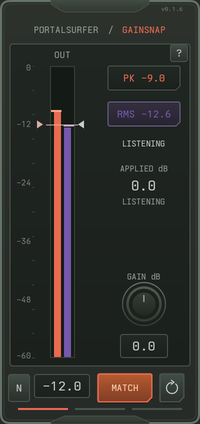
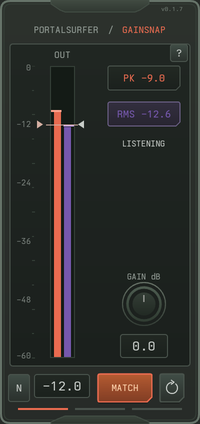
Remove the duplicate applied-gain and adjustment-status readout

Changed region(s): [[0.6, 0.3679, 0.84, 0.4906]]

diff --git a/src/gui_gpui.rs b/src/gui_gpui.rs
@@ -711,9 +711,6 @@ pub(crate) struct GainSnapEditor {
     help_focus: FocusHandle,
     normalize_focus: FocusHandle,
     close_focus: FocusHandle,
-    applied_gain_previous: f32,
-    gain_direction: i8,
-    gain_direction_until: Instant,
     last_display_snapshot: DisplaySnapshot,
 }
 
@@ -802,7 +799,6 @@ impl GainSnapEditor {
             });
         let last_display_snapshot =
             DisplaySnapshot::capture(&controller.params, &controller.status);
-        let applied_gain_previous = controller.status.applied_gain_db();
         Self {
             controller,
             target_input,
@@ -836,9 +832,6 @@ impl GainSnapEditor {
             help_focus: cx.focus_handle(),
             normalize_focus: cx.focus_handle(),
             close_focus: cx.focus_handle(),
-            applied_gain_previous,
-            gain_direction: 0,
-            gain_direction_until: Instant::now(),
             last_display_snapshot,
         }
     }
@@ -1211,7 +1204,7 @@ impl GainSnapEditor {
                 ("Peak / RMS", "Peak: transients. RMS: strongest 300 ms window, not LUFS."),
                 ("Match / Normalize", "Normalize toggles Peak Match at 0 dBFS. Restart measures again."),
                 ("Target / Gain", "Left: target dBFS. Right: gain dB, on its own scale."),
-                ("Applied / Shortfall", "Applied includes gain smoothing. Shortfall: the gain range blocks the RMS target."),
+                ("RMS shortfall", "Shortfall means the gain range prevents reaching the RMS target."),
                 ("Shortcuts", "Drag or type numbers. Shift: finer steps. Double-click: gain 0, target −12. Enter: confirm. Space: DAW transport."),
             ] {
                 body = body.child(div().flex().flex_col().gap(px(2.0))
@@ -1353,16 +1346,6 @@ impl GainSnapEditor {
         let now = Instant::now();
         let meter_changed = self.controller.advance_meter_at(now);
         let pulse_changed = self.controller.advance_pulse_at(now);
-        let previous_direction = self.gain_direction;
-        let applied = self.controller.status.applied_gain_db();
-        let change = applied - self.applied_gain_previous;
-        if change.abs() >= 0.01 {
-            self.gain_direction = if change > 0.0 { 1 } else { -1 };
-            self.gain_direction_until = now + Duration::from_millis(250);
-        } else if now >= self.gain_direction_until {
-            self.gain_direction = 0;
-        }
-        self.applied_gain_previous = applied;
         let snapshot = DisplaySnapshot::capture(&self.controller.params, &self.controller.status);
         if snapshot != self.last_display_snapshot {
             self.last_display_snapshot = snapshot;
@@ -1377,7 +1360,7 @@ impl GainSnapEditor {
             }
             cx.notify();
         }
-        if meter_changed || pulse_changed || previous_direction != self.gain_direction {
+        if meter_changed || pulse_changed {
             cx.notify();
         }
         // The host can begin processing after the first editor paint. Keep
@@ -2181,44 +2164,6 @@ impl Render for GainSnapEditor {
                     .text_color(solid(RMS_COLOR))
                     .child(format!("RMS {}", format_meter_readout(output_rms_db))),
             );
-        let applied = self.controller.status.applied_gain_db();
-        let motion = match match_activity {
-            MatchActivity::Adjusting if self.gain_direction > 0 => "INCREASING",
-            MatchActivity::Adjusting if self.gain_direction < 0 => "DECREASING",
-            MatchActivity::Adjusting => "SETTLING",
-            MatchActivity::Matched | MatchActivity::BelowTarget => "SETTLED",
-            MatchActivity::Listening => "LISTENING",
-            _ => "HELD",
-        };
-        let correction = div()
-            .absolute()
-            .left(px(104.0))
-            .top(px(164.0))
-            .w(px(80.0))
-            .flex()
-            .flex_col()
-            .items_center()
-            .gap(px(3.0))
-            .child(
-                div()
-                    .text_size(px(8.0))
-                    .line_height(px(10.0))
-                    .text_color(solid(TEXT_MUTED))
-                    .child("APPLIED dB"),
-            )
-            .child(
-                div()
-                    .text_size(px(14.0))
-                    .line_height(px(17.0))
-                    .child(format_gain_text(applied)),
-            )
-            .child(
-                div()
-                    .text_size(px(8.0))
-                    .line_height(px(10.0))
-                    .text_color(solid(TEXT_MUTED))
-                    .child(motion),
-            );
         let shortfall = self.controller.status.target_shortfall_db();
         let deficit = div().id("target-shortfall").absolute().left(px(104.0)).top(px(212.0)).w(px(80.0))
             .flex().flex_col().items_center().gap(px(3.0))
@@ -2386,7 +2331,6 @@ impl Render for GainSnapEditor {
             .child(rms_readout)
             .when(show_activity_label, |element| element.child(activity_label))
             .child(activity_rail)
-            .child(correction)
             .when(
                 match_activity == MatchActivity::BelowTarget && shortfall > 0.0,
                 |element| element.child(deficit),

diff --git a/docs/manual/manual.md b/docs/manual/manual.md
@@ -86,9 +86,9 @@ gain sits beside the meter's −12 dB mark. Its position does not represent the
 output level. The knob adjusts the same gain. Editing either gain control
 turns Match off.
 
-**Applied dB** reports the actual gain after smoothing. Increasing, Decreasing
-and Settling indicate adjustment; Settled means the correction has stopped
-moving. Orange Match pulses softly while listening or adjusting. **Below
+The matching indicator shows Listening, Adjusting, or Matched. The gain knob
+and its number field show the gain correction. Orange Match pulses softly
+while listening or adjusting. **Below
 Target** and the shortfall in dB mean the gain range prevents reaching the RMS
 target. The shortfall uses the retained measurement, not a quieter current beat.
 

diff --git a/CHANGELOG.md b/CHANGELOG.md
@@ -2,6 +2,11 @@
 
 ## Unreleased
 
+- Remove the duplicate Applied dB and adjustment-status readout. Keep the
+  matching indicator, gain controls, and RMS shortfall feedback.
+
+## 0.1.7
+
 - Hold automatic matching until repeated signal evidence and a stable measurement
   establish confidence; isolated hits and silent preroll cannot trigger a boost.
   Bound matching gain changes to 24 dB per second and hold the audible gain when
